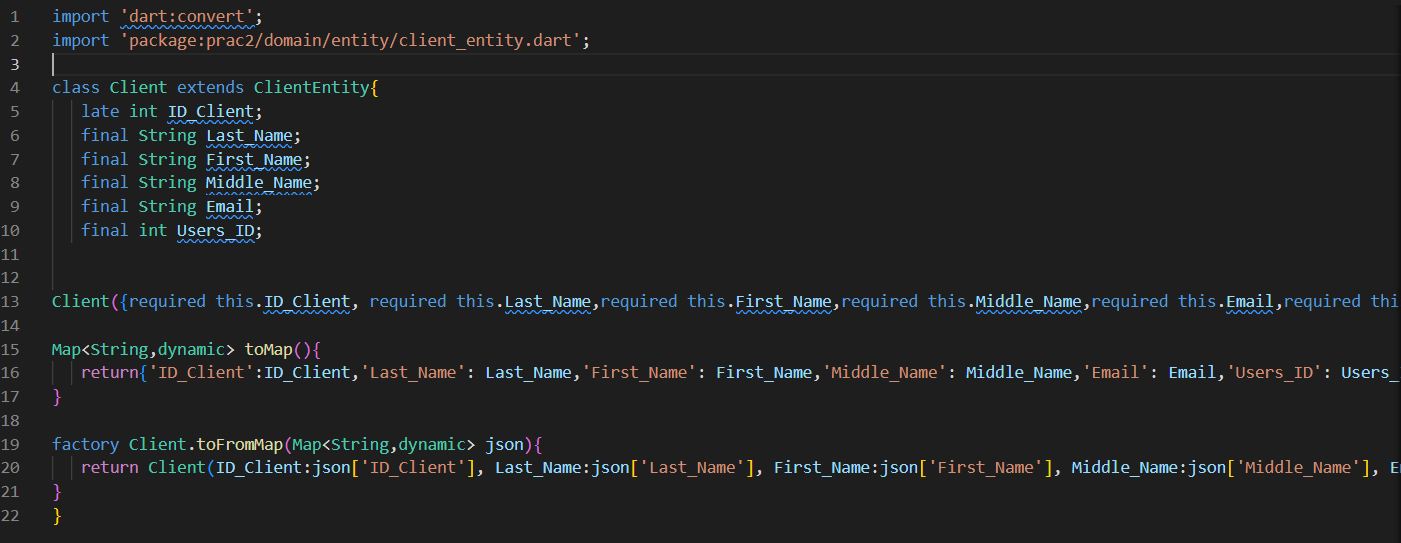
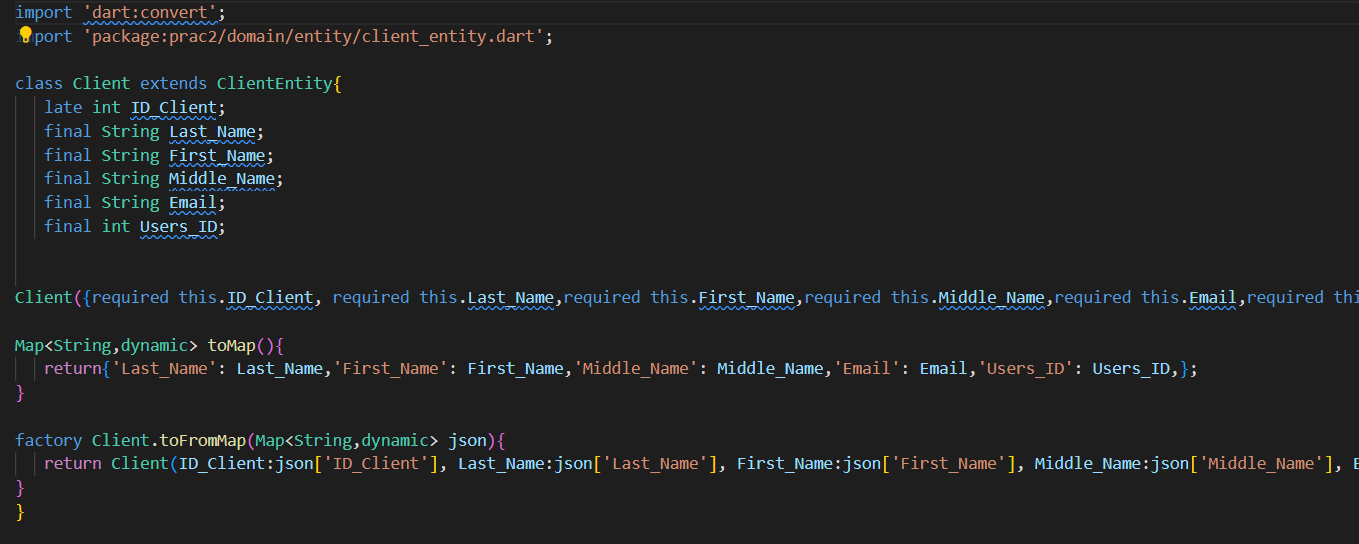
Pract2

diff --git a/lib/data/model/furniture.dart b/lib/data/model/furniture.dart
@@ -11,7 +11,7 @@ class Furniture extends FurnitureEntity{
 Furniture({required this.ID_Furniture, required this.Name_of_Furniture,required this.Price_of_Furniture,required this.Furniture_Detail_ID,}):super(ID_Furniture:ID_Furniture,  Name_of_Furniture:Name_of_Furniture, Price_of_Furniture:Price_of_Furniture, Furniture_Detail_ID:Furniture_Detail_ID,);
 
 Map<String,dynamic> toMap(){
-   return{'ID_Furniture':ID_Furniture,'Name_of_Furniture':Name_of_Furniture,'Price_of_Furniture':Price_of_Furniture,'Furniture_Detail_ID':Furniture_Detail_ID,};
+   return{'Name_of_Furniture':Name_of_Furniture,'Price_of_Furniture':Price_of_Furniture,'Furniture_Detail_ID':Furniture_Detail_ID,};
 }
 
 factory Furniture.toFromMap(Map<String,dynamic> json){

diff --git a/lib/core/db/data_base_helper.dart b/lib/core/db/data_base_helper.dart
@@ -22,7 +22,7 @@ class DataBaseHelper {
   Future<void> init() async {
     _appDocumentDirectory =
         await path_provider.getApplicationDocumentsDirectory();
-    _pathDB = join(_appDocumentDirectory.path, 'boockstore.db');
+    _pathDB = join(_appDocumentDirectory.path, 'furniturestore.db');
 
     if (Platform.isLinux || Platform.isWindows || Platform.isMacOS) {
       sqfliteFfiInit();
@@ -84,7 +84,7 @@ class DataBaseHelper {
   Future<void> onDropDataBase() async {
     database.close();
     if (Platform.isLinux || Platform.isWindows || Platform.isMacOS) {
-      databaseFactory.deleteDatabase(_pathDB);
+      databaseFactoryFfi.deleteDatabase(_pathDB);
     } else {
       deleteDatabase(_pathDB);
     }

diff --git a/lib/data/model/client.dart b/lib/data/model/client.dart
@@ -13,7 +13,7 @@ class Client extends ClientEntity{
 Client({required this.ID_Client, required this.Last_Name,required this.First_Name,required this.Middle_Name,required this.Email,required this.Users_ID,}):super(ID_Client:ID_Client,  Last_Name:Last_Name, First_Name:First_Name, Middle_Name:Middle_Name, Email:Email, Users_ID: Users_ID,);
 
 Map<String,dynamic> toMap(){
-   return{'ID_Client':ID_Client,'Last_Name': Last_Name,'First_Name': First_Name,'Middle_Name': Middle_Name,'Email': Email,'Users_ID': Users_ID,};
+   return{'Last_Name': Last_Name,'First_Name': First_Name,'Middle_Name': Middle_Name,'Email': Email,'Users_ID': Users_ID,};
 }
 
 factory Client.toFromMap(Map<String,dynamic> json){

diff --git a/lib/data/model/furniture_detail.dart b/lib/data/model/furniture_detail.dart
@@ -11,7 +11,7 @@ class Furniture_Detail extends Furniture_DetailEntity{
 Furniture_Detail({required this.ID_Furniture_Detail, required this.Weight,required this.Serial_Number,required this.Furniture_Size_ID,}):super(ID_Furniture_Detail:ID_Furniture_Detail,  Weight: Weight, Serial_Number: Serial_Number, Furniture_Size_ID: Furniture_Size_ID,);
 
 Map<String,dynamic> toMap(){
-   return{'ID_Furniture_Detail':ID_Furniture_Detail,'Weight': Weight,'Serial_Number': Serial_Number,'Furniture_Size_ID': Furniture_Size_ID,};
+   return{'Weight': Weight,'Serial_Number': Serial_Number,'Furniture_Size_ID': Furniture_Size_ID,};
 }
 
 factory Furniture_Detail.toFromMap(Map<String,dynamic> json){

diff --git a/lib/data/model/cell.dart b/lib/data/model/cell.dart
@@ -11,7 +11,7 @@ class Cell extends CellEntity{
 Cell({required this.ID_Cell, required this.Count_of_Furniture,required this.Warehouse_ID,required this.Furniture_ID,}):super(ID_Cell:ID_Cell,  Count_of_Furniture:Count_of_Furniture, Warehouse_ID:Warehouse_ID, Furniture_ID:Furniture_ID,);
 
 Map<String,dynamic> toMap(){
-   return{'ID_Cell':ID_Cell,'Count_of_Furniture':Count_of_Furniture,'Warehouse_ID':Warehouse_ID,'Furniture_ID':Furniture_ID,};
+   return{'Count_of_Furniture':Count_of_Furniture,'Warehouse_ID':Warehouse_ID,'Furniture_ID':Furniture_ID,};
 }
 
 factory Cell.toFromMap(Map<String,dynamic> json){

diff --git a/lib/data/model/order.dart b/lib/data/model/order.dart
@@ -11,7 +11,7 @@ class Order extends OrderEntity{
 Order({required this.ID_Order, required this.Sum_of_Order,required this.Users_ID,required this.Furniture_ID,}):super(ID_Order:ID_Order,  Sum_of_Order:Sum_of_Order, Users_ID:Users_ID, Furniture_ID:Furniture_ID,);
 
 Map<String,dynamic> toMap(){
-   return{'ID_Order':ID_Order,' Sum_of_Order':Sum_of_Order,' Users_ID':Users_ID,' Furniture_ID':Furniture_ID,};
+   return{'Sum_of_Order':Sum_of_Order,'Users_ID':Users_ID,'Furniture_ID':Furniture_ID,};
 }
 
 factory Order.toFromMap(Map<String,dynamic> json){

diff --git a/lib/data/model/furniture_size.dart b/lib/data/model/furniture_size.dart
@@ -11,7 +11,7 @@ class Furniture_Size extends Furniture_SizeEntity{
 Furniture_Size({required this.ID_Furniture_Size, required this.Lenght,required this.Width,required this.Height,}):super(ID_Furniture_Size:ID_Furniture_Size,  Lenght: Lenght, Width: Width, Height: Height,);
 
 Map<String,dynamic> toMap(){
-   return{'ID_Furniture_Size':ID_Furniture_Size,'Lenght': Lenght,'Width': Width,'Height': Height,};
+   return{'Lenght': Lenght,'Width': Width,'Height': Height,};
 }
 
 factory Furniture_Size.toFromMap(Map<String,dynamic> json){

diff --git a/lib/data/model/users.dart b/lib/data/model/users.dart
@@ -11,7 +11,7 @@ class Users extends UsersEntity{
 Users({required this.ID_Users, required this.Login ,required this.Password ,required this.Role_ID ,}):super(ID_Users:ID_Users, Login :Login ,Password :Password ,Role_ID :Role_ID ,);
 
 Map<String,dynamic> toMap(){
-   return{'ID_Users':ID_Users,'Login':Login ,'Password':Password ,'Role_ID':Role_ID ,};
+   return{'Login':Login ,'Password':Password ,'Role_ID':Role_ID ,};
 }
 
 factory Users.toFromMap(Map<String,dynamic> json){

diff --git a/lib/data/model/warehouse.dart b/lib/data/model/warehouse.dart
@@ -9,7 +9,7 @@ class Warehouse extends WarehouseEntity{
 Warehouse({required this.ID_Warehouse, required this.Address_of_Warehouse,}):super(ID_Warehouse:ID_Warehouse,  Address_of_Warehouse:Address_of_Warehouse,);
 
 Map<String,dynamic> toMap(){
-   return{'ID_Warehouse':ID_Warehouse,'Address_of_Warehouse':Address_of_Warehouse,};
+   return{'Address_of_Warehouse':Address_of_Warehouse,};
 }
 
 factory Warehouse.toFromMap(Map<String,dynamic> json){

diff --git a/lib/main.dart b/lib/main.dart
@@ -1,10 +1,11 @@
-import 'dart:html';
 import 'package:flutter/material.dart';
 import 'package:prac2/core/db/data_base_helper.dart';
 
-void main() {
+void main() async {
+  await DataBaseHelper.instance.init();
   //DataBaseHelper.instance.test();
   runApp(const App());
+
 }
 
 class App extends StatelessWidget {

diff --git a/README.md b/README.md
@@ -41,6 +41,10 @@
 
 Далее все таблицы, описанные в модели, делаются подобным образом.
 
+<img src="assets/G.png" width="500" height="20" style="max-width: 100%;">
+
+Рисунок 7 - Созданный файл базы данных
+
 --------------------------------
 
 Вывод: в ходе выполнения данной практической работы удалось изучить лекционный материал и выполнить практическую работу №2, в которой необходимо разработать базу данных для магазина мебели.
